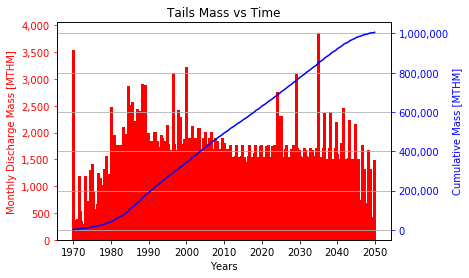
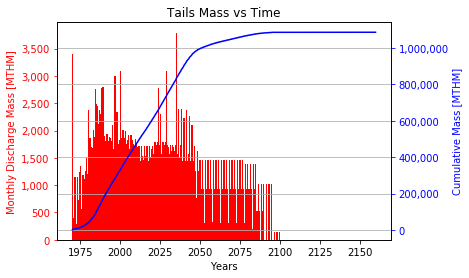
updates

diff --git a/case_specification.tex b/case_specification.tex
@@ -1,29 +1,28 @@
 \subsection{Assumptions}
 
 \begin{frame}
-	\frametitle{Assumptions}
-	\begin{itemize}
-		\item Fuel cycle facility parameters (throughput, availability)
-		\item Compositions of fresh and spent fuel
-		\item Material flow
-	\end{itemize}
+    \frametitle{Assumptions}
+    \begin{itemize}
+        \item Fuel cycle facility parameters (throughput, availability)
+        \item Compositions of fresh and spent fuel
+        \item Material flow
+    \end{itemize}
 \end{frame}
 
 \begin{frame}
-	\frametitle{Assumptions}
-	\begin{itemize}
-		\item SFR technology available for deployment in 2040.
-		\item Reactor construction is always completed on time.
-		\item Separated uranium is unused and stockpiled.
-		\item LWRs have a lifetime of 60 years, unless shut down prematurely.
-		\item SFRs have a lifetime of 80 years.
-	\end{itemize}
-	For the French Transition Scenario:
-	\begin{itemize}
-		\item Reprocessing and fabrication begins 2020
-		\item French nuclear capacity remains constant at 66,000 MWe
-		\item Reprocessing and fabrication capacity is unlimited.
-	\end{itemize}
+    \frametitle{Assumptions}
+    \begin{itemize}
+        \item SFR technology available for deployment in 2040.
+        \item Reactor construction is always completed on time.
+        \item Separated uranium is unused and stockpiled.
+        \item LWRs have a lifetime of 60 years, unless shut down prematurely.
+        \item SFRs have a lifetime of 80 years.
+    \end{itemize}
+    For the French Transition:
+    \begin{itemize}
+        \item Reprocessing and fabrication begins 2020
+        \item French nuclear capacity remains constant at 66,000 MWe
+    \end{itemize}
 \end{frame}
 
 %tikz styling definitions
@@ -39,8 +38,8 @@ minimum height=2em]
 \subsection{Simulation Parameters}
 
 \begin{frame}
-	\frametitle{Material Flow}
-	
+    \frametitle{Material Flow}
+    
 \begin{figure}
         \begin{adjustbox}{max totalsize={0.9\textwidth}{.8\textheight}, center}
                 \begin{tikzpicture}[align=center, node distance = 3cm and 3cm, auto]
@@ -99,68 +98,63 @@ minimum height=2em]
 \end{frame}
 
 \begin{frame}
-	\frametitle{First Simulation - EU Nuclear Opearations \textasciitilde 2050}
-	Deployment and Reactor data from \gls{IAEA} \gls{PRIS}.
-	Reprocessing plant and fabrication plant modeled after French La Hague and MELOX site
-	\cite{schneider_spent_2008, hugelmann_melox_1999}.
-		
+    \frametitle{EU Nuclear Opearations \textasciitilde 2050}
+    Deployment and Reactor data from \gls{IAEA} \gls{PRIS}.
+    Reprocessing plant and fabrication plant modeled after French La Hague and MELOX site
+    \cite{schneider_spent_2008, hugelmann_melox_1999}.
+        
 \begin{table}[h]
-	\centering
-	\begin{tabularx}{\textwidth}{bb}
-		\hline
-		Parameter & Value \\
-		\hline
-		Simulation Start Year & 1970   \\
-		Simulation End Year & 2050  \\ 
-		Reprocessing Capacity & 91.6 [MTHM \gls{UNF} per month] \cite{schneider_spent_2008}  \\
-		Reprocessing Efficiency & 99.8 [\%] \\
-		Reprocessing Streams & Plutonium and Uranium  \\
-		\gls{MOX} Fabrication & \small{9\% Reprocessed Pu + 91\% Depleted U} \\
-		\gls{MOX} Fabrication Throughput & 16.25 [MTHM \gls{MOX} per month]  \cite{hugelmann_melox_1999} \\
-		\gls{MOX} Fuel Reprocessing Stage &  Used \gls{MOX} is not reprocessed. \\  
-		Reprocessed Uranium Usage &  None. Stockpile reprocessed U \\
-		\hline
-	\end{tabularx}
-	\caption {Parameter for Historical Operation of \gls{EU} Case}
-	\label{tab:sim_eu}
+    \centering
+    \begin{tabularx}{\textwidth}{bb}
+        \hline
+        Parameter & Value \\
+        \hline
+        Simulation Start Year & 1970   \\
+        Simulation End Year & 2160  \\ 
+        Reprocessing Capacity & 91.6 [MTHM \gls{UNF} per month] \cite{schneider_spent_2008}  \\
+        Reprocessing Efficiency & 99.8 [\%] \\
+        Reprocessing Streams & Plutonium and Uranium  \\
+        \gls{MOX} Fabrication & \small{9\% Reprocessed Pu + 91\% Depleted U} \\
+        \gls{MOX} Fabrication Throughput & 16.25 [MTHM \gls{MOX} per month]  \cite{hugelmann_melox_1999} \\
+        \gls{MOX} Fuel Reprocessing Stage &  Used \gls{MOX} is not reprocessed. \\  
+        Reprocessed Uranium Usage &  None. Stockpile reprocessed U \\
+        \hline
+    \end{tabularx}
+    \caption {Parameter for Historical Operation of \gls{EU} Case (\textasciitilde 2040)}
+    \label{tab:sim_eu}
 \end{table}
-	
+    
 \end{frame}
 
 \begin{frame}
-	\frametitle{Second Simulation - French Transition to SFRs \textasciitilde 2160}
-	
+    \frametitle{French Transition to SFRs \textasciitilde 2160}
+    
 \begin{table}[h]
-	\centering
-	\begin{tabularx}{\textwidth}{bb}
-		\hline
-		Parameter & Value \\
-		\hline
-		Simulation Time & 1970-2160 \\
-		\gls{SFR} Available Year & 2040 \\
-		Reprocessing Capacity & $\infty$ \\
-		Reprocessing and Fabrication Begins & 2020 \\
-		Separation Efficiency & 99.8 [\%] \\
-		Reprocessing Streams & plutonium and uranium \\
-		\small{Used \gls{UOX} Inventory} & 144,437 [MTHM] {\small (From first simulation)} \\
-		\small{Additional Used \gls{UOX} or Depleted U} & None  \\
-		\gls{MOX} Fabrication &  \small{22\% Reprocessed Pu + 78\% Depleted U}  \\
-		\gls{MOX} Fabrication Throughput & $\infty$ \\
-		\gls{MOX} Fuel Reprocessing Stage &  Used \gls{MOX} gets reprocessed infinitely. \\
-		Reprocessed Uranium Usage &  None. Stockpile reprocessed U. \\
-		\hline
-	\end{tabularx}
-	\caption {Parameter for French Transition to \gls{SFR} case }
-	\label{tab:sim_france}
+    \centering
+    \begin{tabularx}{\textwidth}{bb}
+        \hline
+        Parameter & Value \\
+        \hline
+        \gls{SFR} Available Year & 2040 \\
+        Reprocessing and Fabrication Begins & 2020 \\
+        Separation Efficiency & 99.8 [\%] \\
+        Reprocessing Streams & plutonium and uranium \\
+        \gls{MOX} Fabrication &  \small{22\% Reprocessed Pu + 78\% Depleted U}  \\
+        \gls{MOX} Fuel Reprocessing Stage &  Used \gls{MOX} gets reprocessed infinitely. \\
+        Reprocessed Uranium Usage &  None. Stockpile reprocessed U. \\
+        \hline
+    \end{tabularx}
+    \caption {Parameter for French Transition to \gls{SFR}}
+    \label{tab:sim_france}
 \end{table}
 
 \end{frame}
 
 
 \begin{frame}
-	\frametitle{Reactor Parameters - \glspl{LWR} }
-	Number of assemblies are linearly adjusted from a model 1,000 MWe reactor.
-	\begin{table}[h]
+    \frametitle{Reactor Parameters - \glspl{LWR} }
+    Number of assemblies are linearly adjusted from a model 1,000 MWe reactor.
+    \begin{table}[h]
     \centering
     \begin{tabularx}{\textwidth}{bccc}
         \hline
@@ -182,25 +176,25 @@ minimum height=2em]
 
 
 \begin{frame}
-	\frametitle{Reactor Parameters - ASTRID-type SFRs}
-	
+    \frametitle{Reactor Parameters - ASTRID-type SFRs}
+    
 \begin{table}[h]
-	\centering
-	\begin{tabularx}{\textwidth}{bb}
-		\hline
-		Parameter & Value \\
-		\hline
-		SFR Cycle Time & 12 months \\ 
-		SFR Refueling Outage & 2 months \\
-		Fuel Mass per Batch & 5568 kg \\
+    \centering
+    \begin{tabularx}{\textwidth}{bb}
+        \hline
+        Parameter & Value \\
+        \hline
+        SFR Cycle Time & 12 months \\ 
+        SFR Refueling Outage & 2 months \\
+        Fuel Mass per Batch & 5,568 kg \\
         Initial Pu Loading & 4.9 Tons \\
-		Batch per Core & 4 \\
-		Power Output & 600 MWe \\
-		lifetime & 80 years \\
-		Fuel & {\small \gls{MOX} (78\% Tailings, 22\% Separated Pu)}\\
-		\hline
-	\end{tabularx}
-	\caption {\gls{SFR} ASTRID Parameters \cite{varaine_pre-conceptual_2012}}
-	\label{tab:sfr}
+        Batch per Core & 4 \\
+        Power Output & 600 MWe \\
+        lifetime & 80 years \\
+        Fuel & {\small \gls{MOX} (78\% Tails, 22\% Separated Pu)}\\
+        \hline
+    \end{tabularx}
+    \caption {\gls{SFR} ASTRID Parameters \cite{varaine_pre-conceptual_2012}}
+    \label{tab:sfr}
 \end{table}
 \end{frame}

diff --git a/results.tex b/results.tex
@@ -9,12 +9,12 @@
 		\begin{tabular}{cccc}
 			\hline
 			\textbf{Category } & \textbf{Value} & \textbf{Unit} & \textbf{Specifics}\\ \hline
-			Total UOX Usage  & 167,495 & MTHM &  \\ 
-			Total MOX Usage  & 7,842 & MTHM & \\ 
-			Total Used UOX Stored  & 104,091 & MTHM & \gls{UNF} that is not reprocessed\\  
-			Total Used UOX Stored (France) & 5,848 & MTHM & \gls{UNF} that is not reprocessed \\
-			Total Tailings  & 1,006,300 & MTHM & \\ 
-			Total Natural U Used  & 1,181,706 & MTHM & \\ \hline
+			Total UOX Usage  & 79,500 & MTHM &  \\ 
+			Total MOX Usage  & 4,053 & MTHM & \\ 
+			Total Used UOX Stored  & 110,013 & MTHM & \gls{UNF} that is not reprocessed\\  
+			Total Used UOX Stored (France) & 22,824 & MTHM & \gls{UNF} that is not reprocessed \\
+			Total Tails  & 1,086,903 & MTHM & \\ 
+			Total Natural U Used  & 1,266,403 & MTHM & \\ \hline
 		\end{tabular}}
 		\caption{Simulation Results for Historical Nuclear Operation 
 		of \gls{EU} Nations}
@@ -60,11 +60,11 @@
 \begin{frame}
 	\frametitle{SFR Deployment with Legacy UNF}
 	\begin{itemize}
-		\item Reprocessing UNF from all EU nations can start approx. 265 SFRs.
+		\item Reprocessing UNF from all EU nations can start approx. 202 SFRs.
 		\item Two generations of 66GWe SFRs = 220 SFRs
 		\item Breeding Ratio of SFRs over one. ($\frac{23.95}{22.0} = 1.088$)
 		\item Initial Pu loading of $4.9$ tons for ASTRID-type SFR \cite{varaine_pre-conceptual_2012}.
-		\item $\frac{Pu \ from \ legacy \ \gls{UNF}}{4.9} \approx 265$
+		\item $\frac{Pu \ from \ legacy \ \gls{UNF}}{4.9} \approx 202$
 	\end{itemize}
 \end{frame}
 
@@ -79,13 +79,13 @@
 			\textbf{Category} & \textbf{Unit} & \textbf{Value}  \\ \hline
 			Total MOX used & MTHM & 63,820  \\ 
 			Total \glspl{SFR} Deployed & & 220 \\ 
-			Total Plutonium Reprocessed & MTHM & 17,303 \\ 
-			Total MOX from UOX Waste & MTHM & 3,056  \\ 
-			Total MOX from MOX Waste & MTHM  & 60,763 \\ 
-			Total Tails used & MTHM & 58,076 \\ 
-			Total legacy UNF reprocessed & MTHM & 71,726 \\ 
-			Total Reprocessed Uranium Stockpile & MTHM & 150,098 \\ 
-			Total Raffinate & MTHM & 17,303 \\ \hline
+			Total Plutonium Reprocessed & MTHM & 15,230 \\ 
+			Total \gls{ASTRID} fuel from UOX Waste & MTHM & 3,056  \\ 
+			Total \gls{ASTRID} fuel from MOX Waste & MTHM  & 60,763 \\ 
+			Total Tails used & MTHM & 49,779 \\ 
+			Total legacy UNF reprocessed & MTHM & 56,584 \\ 
+			Total Reprocessed Uranium Stockpile & MTHM & 184,789 \\ 
+			Total Raffinate & MTHM & 35,834 \\ \hline
 		\end{tabular}}
 		\caption {\gls{SFR} Simulation Results}
 		\label{tab:sfr_sim_result}
@@ -102,7 +102,7 @@
 	\begin{center}
 		\includegraphics[width=\textwidth]{./images/french-transition/where_fuel.png}
 	\end{center}
-	\caption{Timeseries of fuel loaded into \glspl{SFR}}
+	\caption{Timeseries of fuel loaded into \glspl{SFR}, separated by origin}
 	\label{fig:fuel}
 \end{minipage}
 \hspace{.5cm}
@@ -110,6 +110,28 @@
 	\centering
 		\includegraphics[width=\linewidth]{./images/french-transition/pu.png}
 	\caption{Separated plutonium discharge from Reprocessing Plant}
+	\label{fig:pu_no_cum}
+\end{minipage}
+\end{figure}
+
+\end{frame}
+
+\begin{frame}
+	\frametitle{Material Flow in French Transition Scenario}
+	
+\begin{figure}[htbp!]
+\begin{minipage}[b]{.45\linewidth}
+	\begin{center}
+		\includegraphics[width=\textwidth]{./images/french-transition/raffinate.png}
+	\end{center}
+	\caption{Timeseries of raffinate discharge from reprocessing plants}
+	\label{fig:fuel}
+\end{minipage}
+\hspace{.5cm}
+\begin{minipage}[b]{.45\linewidth}
+	\centering
+		\includegraphics[width=\linewidth]{./images/french-transition/raffinate_cum.png}
+	\caption{Cumulative raffinate inventory separated by origin}
 	\label{fig:pu_no_cum}
 \end{minipage}
 \end{figure}

diff --git a/conclusion.tex b/conclusion.tex
@@ -18,35 +18,35 @@
                     
                     \textbf{Nation} & \textbf{Growth Trajectory} & \small{\textbf{UNF in 2050 [MTHM] }}\\
                     \hline
-                    UK & Aggressive Growth & 13,850\\
+                    UK & Aggressive Growth & 53,188\\
                     \hline
-                    \textbf{Poland} & \textbf{Aggressive Growth} &  \textbf{1,892}\\
+                    \textbf{Poland} & \textbf{Aggressive Growth} &  \textbf{6,714}\\
                     \hline
-                    \textbf{Hungary} & \textbf{Aggressive Growth} & \textbf{3,266} \\ 
+                    \textbf{Hungary} & \textbf{Aggressive Growth} & \textbf{4,768} \\ 
                     \hline
-                    Finland & Modest Growth &  5,834\\
+                    Finland & Modest Growth &  7,528\\
                     \hline
-                    \textbf{Slovakia} & \textbf{Modest Growth} & \textbf{2,875}\\
+                    \textbf{Slovakia} & \textbf{Modest Growth} & \textbf{3,446}\\
                     \hline
-                   \textbf{ Bulgaria} & \textbf{Modest Growth} & \textbf{3,373} \\
+                   \textbf{Bulgaria} & \textbf{Modest Growth} & \textbf{3,930} \\
                     \hline
-                    \textbf{Czech Rep.} & \textbf{Modest Growth} & \textbf{4,604}\\
+                    \textbf{Czech Rep.} & \textbf{Modest Growth} & \textbf{7,583}\\
                     \hline
-                    \textbf{Slovenia} & \textbf{Modest Reduction} & \textbf{801}\\
+                    \textbf{Slovenia} & \textbf{Modest Reduction} & \textbf{765}\\
                     \hline
-                    \textbf{Netherlands} & \textbf{Modest Reduction} & \textbf{564}\\
+                    \textbf{Netherlands} & \textbf{Modest Reduction} & \textbf{539}\\
                     \hline
-                    \textbf{Lithuania} & \textbf{Modest Reduction} & \textbf{2,769}\\
+                    \textbf{Lithuania} & \textbf{Modest Reduction} & \textbf{2,644}\\
                     \hline 
-                    \textbf{Spain} & \textbf{Modest Reduction} &  \textbf{10,104} \\
+                    \textbf{Spain} & \textbf{Modest Reduction} &  \textbf{9,771} \\
                     \hline
-                    \textbf{Italy} & \textbf{Modest Reduction} & \textbf{591}\\
+                    \textbf{Italy} & \textbf{Modest Reduction} & \textbf{583}\\
                     \hline
-                    \textbf{Belgium} & A\textbf{ggressive Reduction} & \textbf{6,957}\\
+                    \textbf{Belgium} & A\textbf{ggressive Reduction} & \textbf{6,644}\\
                     \hline
-                    Sweden & Aggressive Reduction & 16,183\\
+                    Sweden & Aggressive Reduction & 16,035\\
                     \hline
-                    \textbf{Germany} & \textbf{Aggressive Reduction} & \textbf{24,573}\\
+                    \textbf{Germany} & \textbf{Aggressive Reduction} & \textbf{23,868}\\
                     \hline
                     
                 \end{tabularx}

diff --git a/background.tex b/background.tex
@@ -63,12 +63,18 @@
 
 \begin{frame}
 	\frametitle{Method}
-	Two simulations are run:
-	\begin{itemize}
-		\item \gls{EU} \gls{UNF} inventory at 2050 (1970-2050)
-		\item French transition to \glspl{SFR} (1970-2160)
-	\end{itemize}
-	The \gls{UNF} and tails inventory from the first simulation are used for the second simulation.
+	\Cyclus simulation of \gls{EU} nations (1970 - 2160) with 
+	French Transition into an \gls{SFR} fleet from 2040.
+
+\begin{figure}[htbp!]
+        \begin{center}
+                \includegraphics[width=.8\textwidth]{./images/onesim/power_plot.png}
+        \end{center}
+        \caption{Total Deployment Scheme of \gls{EU} nations}
+        \label{fig:eu_dep}
+
+\end{figure}
+
 \end{frame}
 
 \begin{frame}
